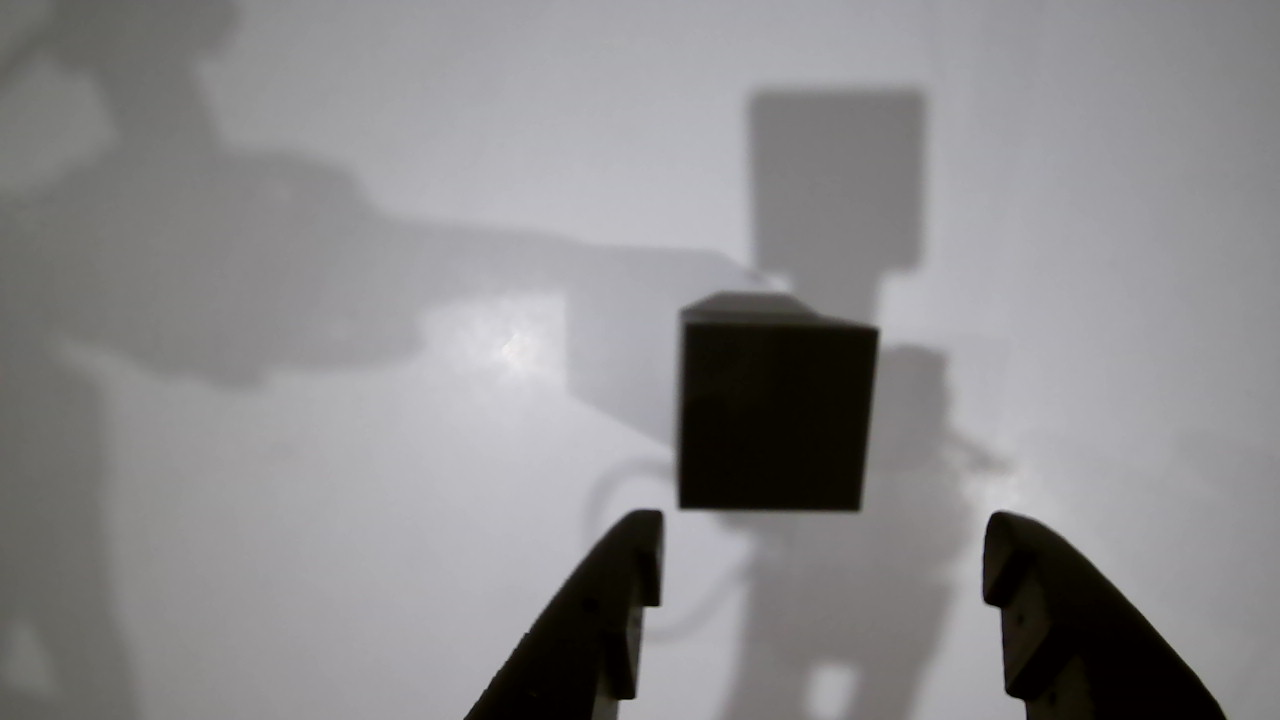
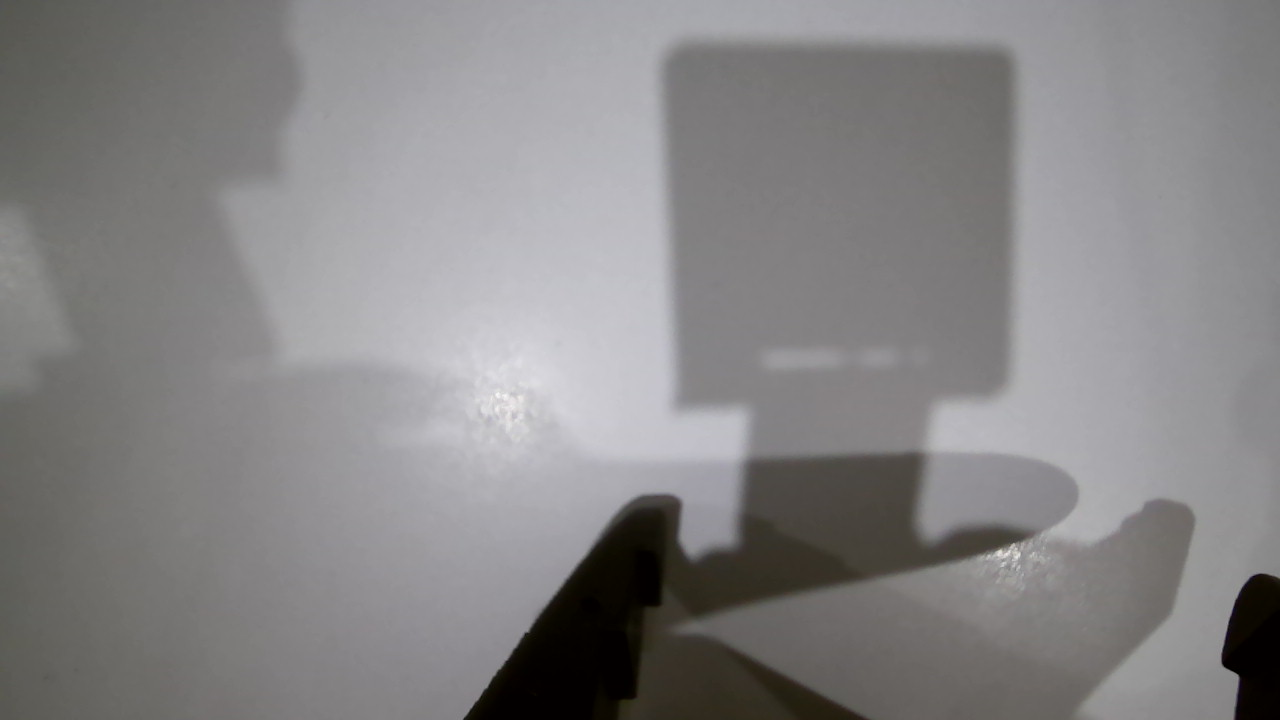
Update tools for arm-007__gpt-6-astra__grasp-cube
{"agent_id": "arm-007__gpt-6-astra__grasp-cube", "designation": "arm-007", "identity_version": 2, "model": "gpt-6-astra", "provider": "codex", "task_definition": {"description": "Start episode, pickup the black cube, bring black cube to home position, confirm successful grasp, stop episode, return object to new position, return home, repeat", "id": "grasp-cube", "success_criteria": ["successful episode coverage across the entire workspace", "achieve at least 50 successful episodes an hour"], "version": 2}, "task_id": "grasp-cube", "task_sha256": "e6c8adbb1562fdc6af3405e2e618046b110e27856c520c9f5cd329c258fb3818", "task_version": 2, "tools_sha256": "1046d27d2235002da8f7dede4daf68beeb2b6e352bddeaa7456690a60e071c63"}

diff --git a/agents/arm-007__gpt-6-astra__grasp-cube/cube_grip.py b/agents/arm-007__gpt-6-astra__grasp-cube/cube_grip.py
@@ -1,0 +1,17 @@
+import time
+import calibrate_workspace as c,recording
+from cube_control import snapshot
+with c.connected_bus(recording.serial_port()) as b:
+ p=b.read('Present_Position','gripper')
+ for goal in range(int(p)-1,4,-1):
+  c.move(b,{'gripper':goal},.08)
+  time.sleep(.1)
+  actual=b.read('Present_Position','gripper')
+  if actual-goal>1.3:
+   b.write('Goal_Position','gripper',actual-.35)
+   print('contact',actual,'hold',actual-.35,flush=True)
+   break
+ else:print('no contact',flush=True)
+ time.sleep(.3)
+ print('fault',c.fault_bits(b,'gripper'))
+ snapshot()
